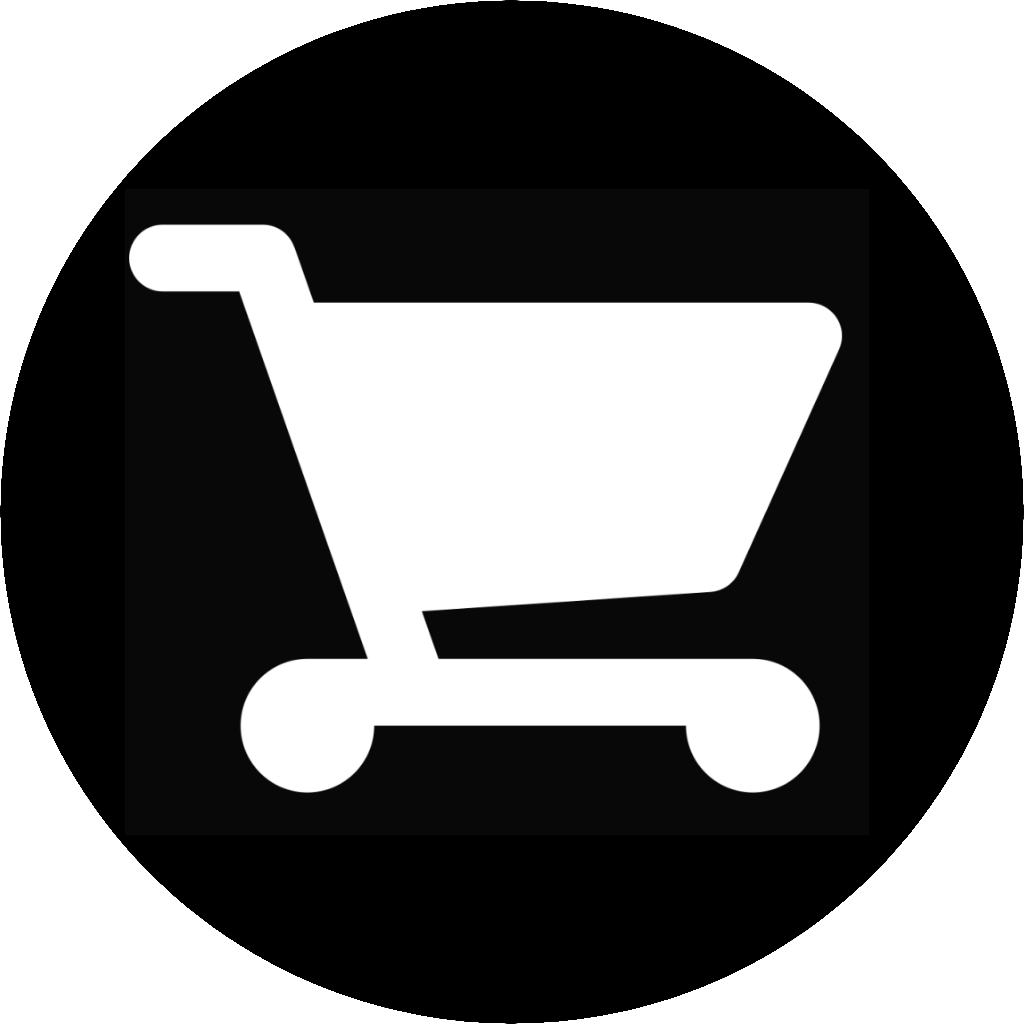
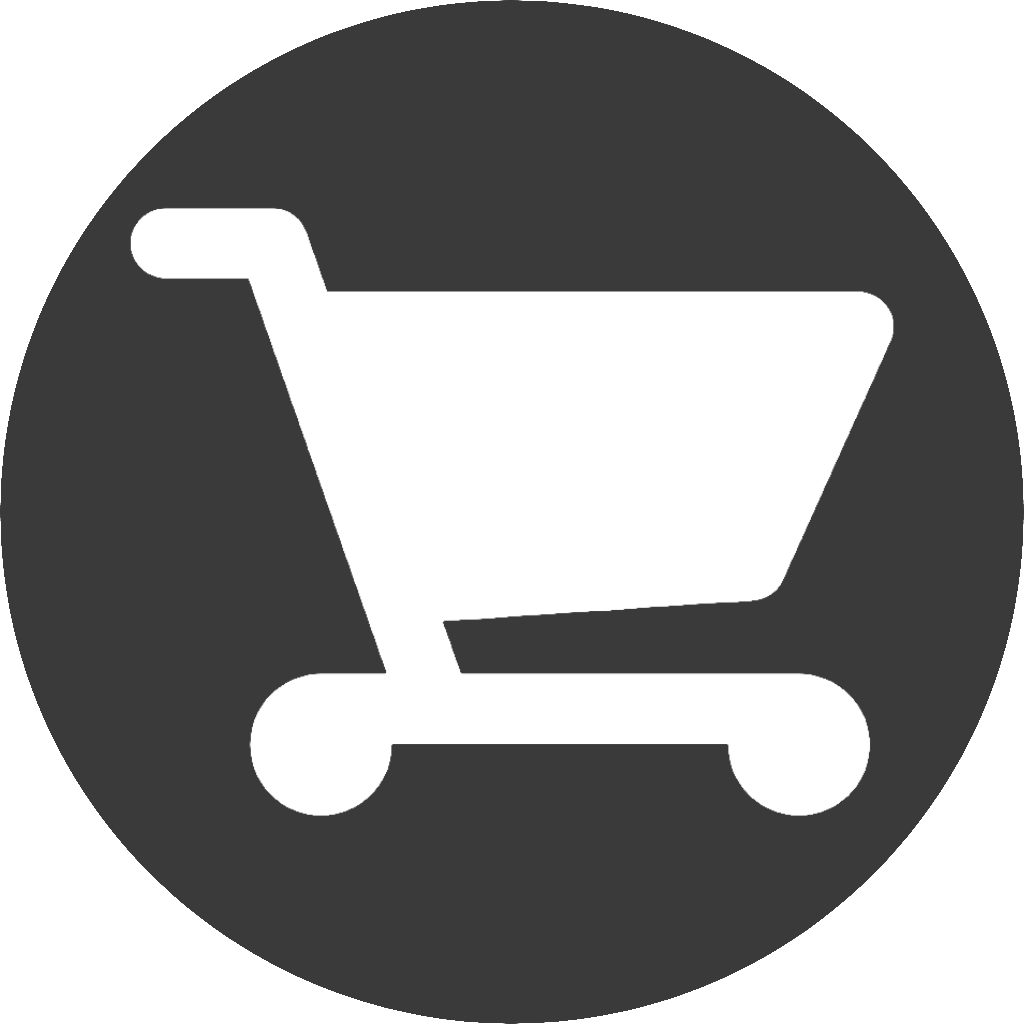
home page

diff --git a/src/assets/css/App.css b/src/assets/css/App.css
@@ -2,6 +2,9 @@
   font-family: 'Lato', sans-serif;
   font-weight: bold;
 }
+html {
+  overflow-x: hidden;
+}
 /* Spinner */
 .cup {
   position: absolute;
@@ -56,6 +59,51 @@
 body {
   background: rgb(233, 233, 233);
 }
+.home {
+  width: 100vw;
+  height: 100vh;
+  background-image: url(../img/homepage.png);
+  background-color: #f1ede7;
+  background-blend-mode: multiply;
+  background-size: cover;
+  display: flex;
+  flex-flow: row wrap;
+  align-items: center;
+  align-content: center;
+  justify-content: center;
+}
+.home--text {
+  background-color: #f1ede7;
+  width: 50vw;
+  height: 20vw;
+  padding: 30px;
+  margin: 0 25px;
+  border: 1.5px solid gray;
+}
+.home--text > h1 {
+  font-family: 'Charis SIL', serif;
+  font-size: 4vw;
+  font-weight: 700;
+}
+.home--text > p {
+  font-size: 1.2vw;
+  font-weight: 400;
+  color: rgb(95, 95, 95);
+}
+.home--text > a {
+  margin-bottom: 20px;
+  width: 50vw;
+}
+.home--image {
+  width: 40vw;
+  height: 40vw;
+  background-image: url(../img/home-image.png);
+  background-repeat: no-repeat;
+  background-size: contain;
+  background-position: 90%;
+  margin: 10px;
+}
+
 .logo {
   width: 250px;
   margin: 16px;
@@ -332,7 +380,7 @@ a:hover {
   border: none;
   background-color: rgb(224, 224, 224);
   height: 40px;
-  width: 80%;
+  width: 50%;
   min-width: 150px;
   margin: 7px;
   border-radius: 5px;
@@ -388,8 +436,50 @@ a:hover {
 }
 
 /* Media Queries */
-
+@media screen and (max-width: 1350px) {
+  .home--image {
+    display: none;
+  }
+  .home--text {
+    height: 50vh;
+    display: flex;
+    flex-flow: column;
+    align-items: center;
+  }
+  .home--text > p {
+    font-size: 2vw;
+    text-align: center;
+    margin-top: 40px;
+  }
+  .home--text > a {
+    width: 50%;
+    margin-top: 60px;
+    margin-bottom: 0;
+  }
+  .buttons--home{
+    width: 60%;
+    margin: 0 20%;
+  }
+}
 @media screen and (max-width: 850px) {
+  .home--text {
+    width: 70vw;
+    height: 50vh;
+    display: flex;
+    flex-flow: column;
+    align-items: center;
+    border: 1.5px solid gray;
+  }
+  .home--text > h1 {
+    font-size: 7vw;
+    text-align: center;
+    margin-top: 40px;
+  }
+  .home--text > p {
+    font-size: 4vw;
+    text-align: center;
+    margin-top: 40px;
+  }
   .logo {
     width: 200px;
     margin: 16px;
@@ -419,7 +509,7 @@ a:hover {
     width: 40px;
     margin-left: 10px;
     position: fixed;
-    background-color: rgb(0, 0, 0);
+    background-color: #3a3a3a;
   }
   .dropbtn-mobile div {
     margin: 5px auto;
@@ -499,6 +589,16 @@ a:hover {
     width: 200px;
     height: 40px;
   }
+  .home--text > a {
+    width: 60%;
+    margin-top: 40px;
+    margin-bottom: 20px;
+    align-self: center;
+  }
+  .buttons--home{
+    width: 100%;
+    margin: 0;
+  }
   .detail-mobile > h1 {
     font-size: 20px;
     margin: 10px;
@@ -523,5 +623,8 @@ a:hover {
     flex: 1 1 140px;
     width: 8vw;
     margin: 5px;
+  }
+  .orderForm > input {
+    width: 80%;
   }
 }

diff --git a/src/App.jsx b/src/App.jsx
@@ -1,6 +1,7 @@
 import React from 'react';
 // Components
 import NavBar from './components/Layout/NavBar';
+import Home from './components/Home/Home';
 import ItemListContainer from './components/ItemListContainer/ItemListContainer';
 import ItemDetailContainer from './components/ItemDetailContainer/ItemDetailContainer';
 import Cart from './components/Cart/Cart'
@@ -17,7 +18,7 @@ function App() {
     <BrowserRouter>
       <NavBar/>
       <Routes>
-        <Route path='/' element={<ItemListContainer/>}/>
+        <Route path='/' element={<Home/>}/>
         <Route path='/shop' element={<ItemListContainer/>}/>
         <Route path='/item/:id' element={<ItemDetailContainer/>}/>
         <Route path='/categories/:categoryid' element={<ItemListContainer/>}/>

diff --git a/public/index.html b/public/index.html
@@ -11,6 +11,9 @@
     <link rel="preconnect" href="https://fonts.googleapis.com">
     <link rel="preconnect" href="https://fonts.gstatic.com" crossorigin>
     <link href="https://fonts.googleapis.com/css2?family=Lato:wght@400;700&display=swap" rel="stylesheet">
+    <link rel="preconnect" href="https://fonts.googleapis.com">
+    <link rel="preconnect" href="https://fonts.gstatic.com" crossorigin>
+    <link href="https://fonts.googleapis.com/css2?family=Charis+SIL:wght@400;700&display=swap" rel="stylesheet">
     <meta
       name="description"
       content="Web site created using create-react-app"

diff --git a/src/components/Home/Home.jsx b/src/components/Home/Home.jsx
@@ -1,0 +1,18 @@
+import React from 'react';
+import { Link } from 'react-router-dom';
+
+const Home = () => {
+  return (
+    <div className='home'>
+      <div className='home--text'>
+        <h1>Todo comienza con un Café.</h1>
+        <p>Acceda a nuestra tienda y llevese los mejores productos!</p>
+        <Link to='/shop'><button className='buttons buttons--home'>Ver Tienda</button></Link>
+      </div>
+      <div className='home--image'>
+      </div>
+    </div>
+  );
+}
+
+export default Home;
